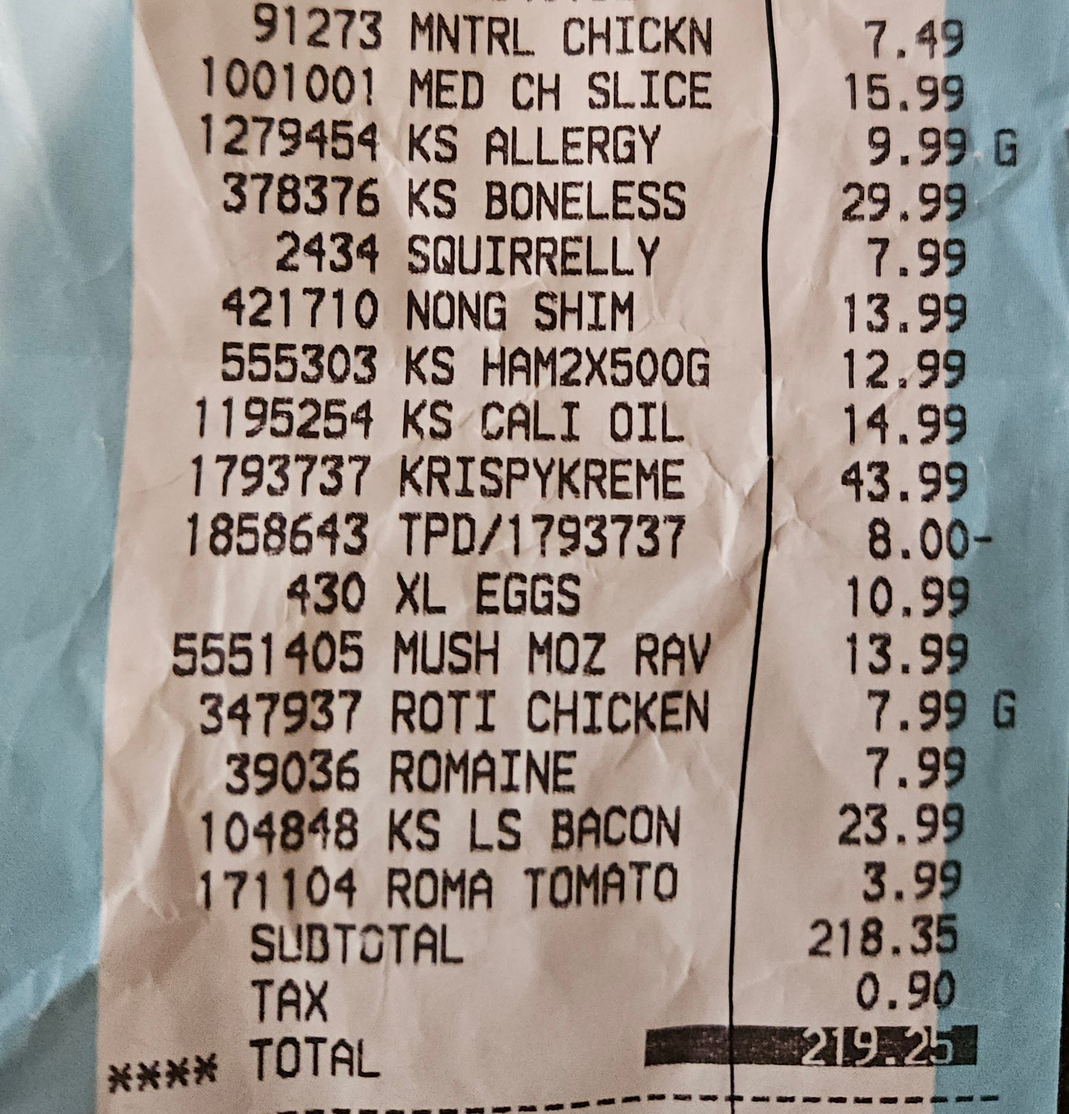
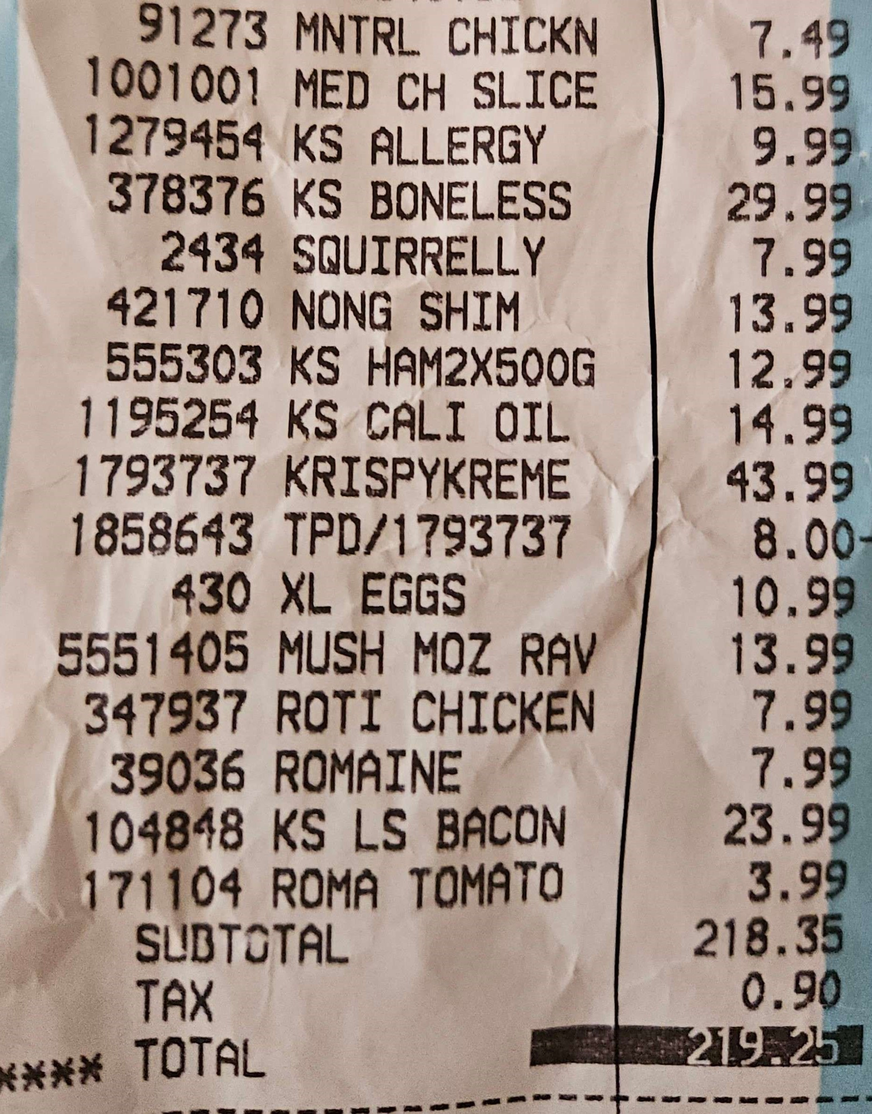
small updates to the sample images and crop modal size

diff --git a/client/src/components/Groceries/Scanner/Scanner.jsx b/client/src/components/Groceries/Scanner/Scanner.jsx
@@ -13,11 +13,15 @@ import {
   Image,
   Flex,
   ButtonGroup,
+  Icon,
+  Spinner,
 } from "@chakra-ui/react";
+import { ArrowForwardIcon } from "@chakra-ui/icons";
 import { useState } from "react";
 import CropModal from "./CropModal";
 import sampleReceiptImage from "./images/sample_receipt.jpg";
 import sampleGroceriesImage from "./images/sample_groceries.jpg";
+import croppedReceiptImage from "./images/cropped_receipt.jpg";
 import ScannedGroceriesList from "./ScannedGroceriesList";
 
 export default function Scanner({ isOpen, onClose, type }) {
@@ -25,6 +29,14 @@ export default function Scanner({ isOpen, onClose, type }) {
   const [croppedImageUrl, setCroppedImageUrl] = useState(null);
   const [croppedImageBlob, setCroppedImageBlob] = useState(null);
   const [isCropModalOpen, setIsCropModalOpen] = useState(false);
+  const [isImageLoaded, setImageLoaded] = useState(false);
+
+  // const sampleReceiptImage =
+  //   "https://via.placeholder.com/300x200?text=Loading...&delay=5000";
+  // const sampleGroceriesImage =
+  //   "https://via.placeholder.com/300x200?text=Loading...&delay=5000";
+  // const croppedReceiptImage =
+  //   "https://via.placeholder.com/300x200?text=Cropped&delay=5000";
 
   const handleImageUpload = (event) => {
     const file = event.target.files[0];
@@ -93,13 +105,36 @@ export default function Scanner({ isOpen, onClose, type }) {
               alignItems="flex-start"
               justifyContent="space-between"
             >
-              <Image
-                src={type === "Receipt" ? sampleReceiptImage : sampleGroceriesImage}
-                w="100%"
-                maxW="30vh"
-                objectFit="contain"
-                mb="4"
-              />
+              {!isImageLoaded ? (
+                <Spinner size="xl" />
+              ) : (
+                <Flex align="center">
+                  <Image
+                    src={
+                      type === "Receipt"
+                        ? sampleReceiptImage
+                        : sampleGroceriesImage
+                    }
+                    w="100%"
+                    maxW="35vh"
+                    objectFit="contain"
+                    onLoad={() => setImageLoaded(true)}
+                    mb="4"
+                  />
+                  {type === "Receipt" && (
+                    <>
+                      <Icon as={ArrowForwardIcon} boxSize={8} mx={4} />
+                      <Image
+                        src={croppedReceiptImage}
+                        w="100%"
+                        maxW="30vh"
+                        objectFit="contain"
+                        mb="4"
+                      />
+                    </>
+                  )}
+                </Flex>
+              )}
               <VStack alignItems="flex-start" spacing="4" w="100%">
                 <Text fontSize="lg" fontWeight="bold">
                   Instructions:

diff --git a/client/src/components/Groceries/Scanner/CropModal.jsx b/client/src/components/Groceries/Scanner/CropModal.jsx
@@ -71,7 +71,7 @@ export default function CropModal({ aspect, isOpen, onClose, imageSrc, onCropCom
       <ModalContent>
         <ModalHeader>Crop Receipt</ModalHeader>
         <ModalBody>
-          <Box position="relative" width="100%" height="80vh">
+          <Box position="relative" width="100%" height="70vh">
             <Cropper
               image={imageSrc}
               crop={crop}
